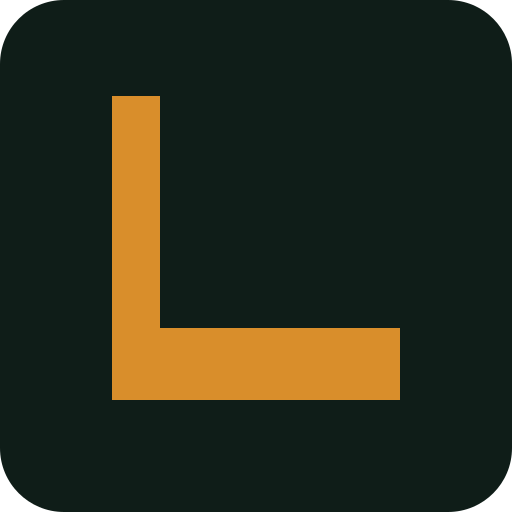
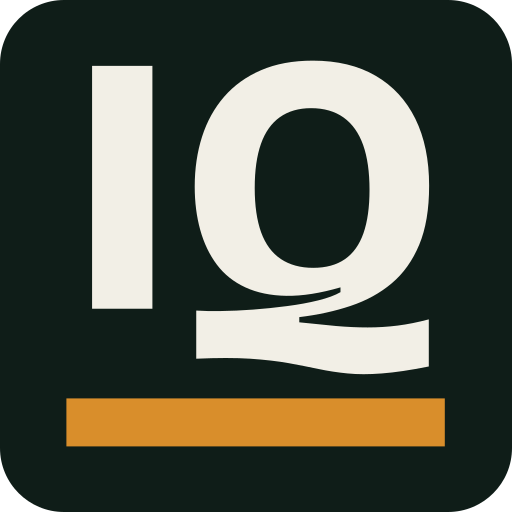
feat: logotype identity - integrated pour lockup and IQ tile
The identity is the logotype: the wordmark with the pour integrated,
as the site hero draws it. The lockup and OG card carry the corrected
treatment (underline spanning the wordmark only, clear of the Q
descender, vertical dropping from cap-height above, OG block optically
centred with no framing lines). Tile assets carry "IQ" over the measure
underline only - no vertical stroke, which reads as an L standalone -
with the Q tail visible at every size; the 16px ICO slice is a
hand-tuned simplified drawing with a bold straight tail. The three
standalone abstract mark SVGs are retired from the repo, build output,
and README.

diff --git a/README.md b/README.md
@@ -68,21 +68,22 @@ Three layers keep the site out of search results until launch (robots.txt alone 
 
 ## Brand assets
 
-Vector sources are the single source of truth; every raster asset is derived from an SVG, never the reverse. Colours are token values traced to `lib/design-tokens.ts` in each file's comments.
+The identity is the logotype: the "Pour IQ" wordmark with the pour integrated, exactly as the site hero draws it. Where space allows, use the full lockup; where it does not (favicons, app icons, avatars), the IQ-and-underline tile. Nothing else exists — there is no standalone abstract mark, and the vertical pour stroke appears only alongside the word "Pour" (standalone it reads as the letter L).
+
+Vector sources are the single source of truth; every raster asset is derived from a committed SVG, never the reverse. Colours are token values traced to `lib/design-tokens.ts` in each file's comments.
 
 | File                                                                                                                 | Context                                                                                                                                                                                        |
 | -------------------------------------------------------------------------------------------------------------------- | ---------------------------------------------------------------------------------------------------------------------------------------------------------------------------------------------- |
-| `public/brand/pour-mark.svg`                                                                                         | The mark: the hero pour formalised. `currentColor` fill with a measure default — restyle by setting `color` on the embedding context.                                                          |
-| `public/brand/pour-mark-mono.svg`                                                                                    | Single-colour mark, pure `currentColor`, for print and embeds.                                                                                                                                 |
-| `public/brand/pour-mark-on-cellar.svg`                                                                               | The mark on a cellar rounded-square tile (radius-md) for contained contexts: favicons, app icons, avatars.                                                                                     |
-| `public/brand/pour-iq-lockup.svg`                                                                                    | Mark plus wordmark, with "Pour IQ" outlined from Bricolage Grotesque 800 — no font dependency, renders identically everywhere. Generated; do not edit by hand.                                 |
+| `public/brand/pour-iq-lockup.svg`                                                                                    | The logotype: "Pour IQ" outlined from Bricolage Grotesque 800 (no font dependency) with the measure underline and vertical pour stroke. Generated; do not edit by hand.                        |
+| `public/brand/iq-tile.svg`                                                                                           | "IQ" over the measure underline on the cellar tile (radius-md), true letterforms — use at 32px and above. Generated; do not edit by hand.                                                      |
+| `public/brand/iq-tile-16.svg`                                                                                        | Hand-tuned simplified drawing for the 16px favicon slice only: plain I stem, Q ring with a bold straight tail (never dropped), thicker strokes.                                                |
 | `public/icon.svg`, `public/favicon.ico`, `public/apple-touch-icon.png`, `public/icon-192.png`, `public/icon-512.png` | Favicon and app-icon derivatives of the tile, wired through the metadata icons API in `app/layout.tsx` and `public/site.webmanifest`. `icon-512.png` doubles as the Organization JSON-LD logo. |
-| `public/og.png`                                                                                                      | The 1200×630 social card.                                                                                                                                                                      |
+| `public/og.png`                                                                                                      | The 1200×630 social card: the logotype optically centred, tagline beneath.                                                                                                                     |
 
 Regenerate with:
 
 ```
-pnpm brand:generate                        # lockup, favicons, app icons (from the SVGs)
+pnpm brand:generate                        # lockup, tile, favicons, app icons
 pwsh scripts/generate-og-image.ps1         # og.png (Windows; System.Drawing)
 ```
 
